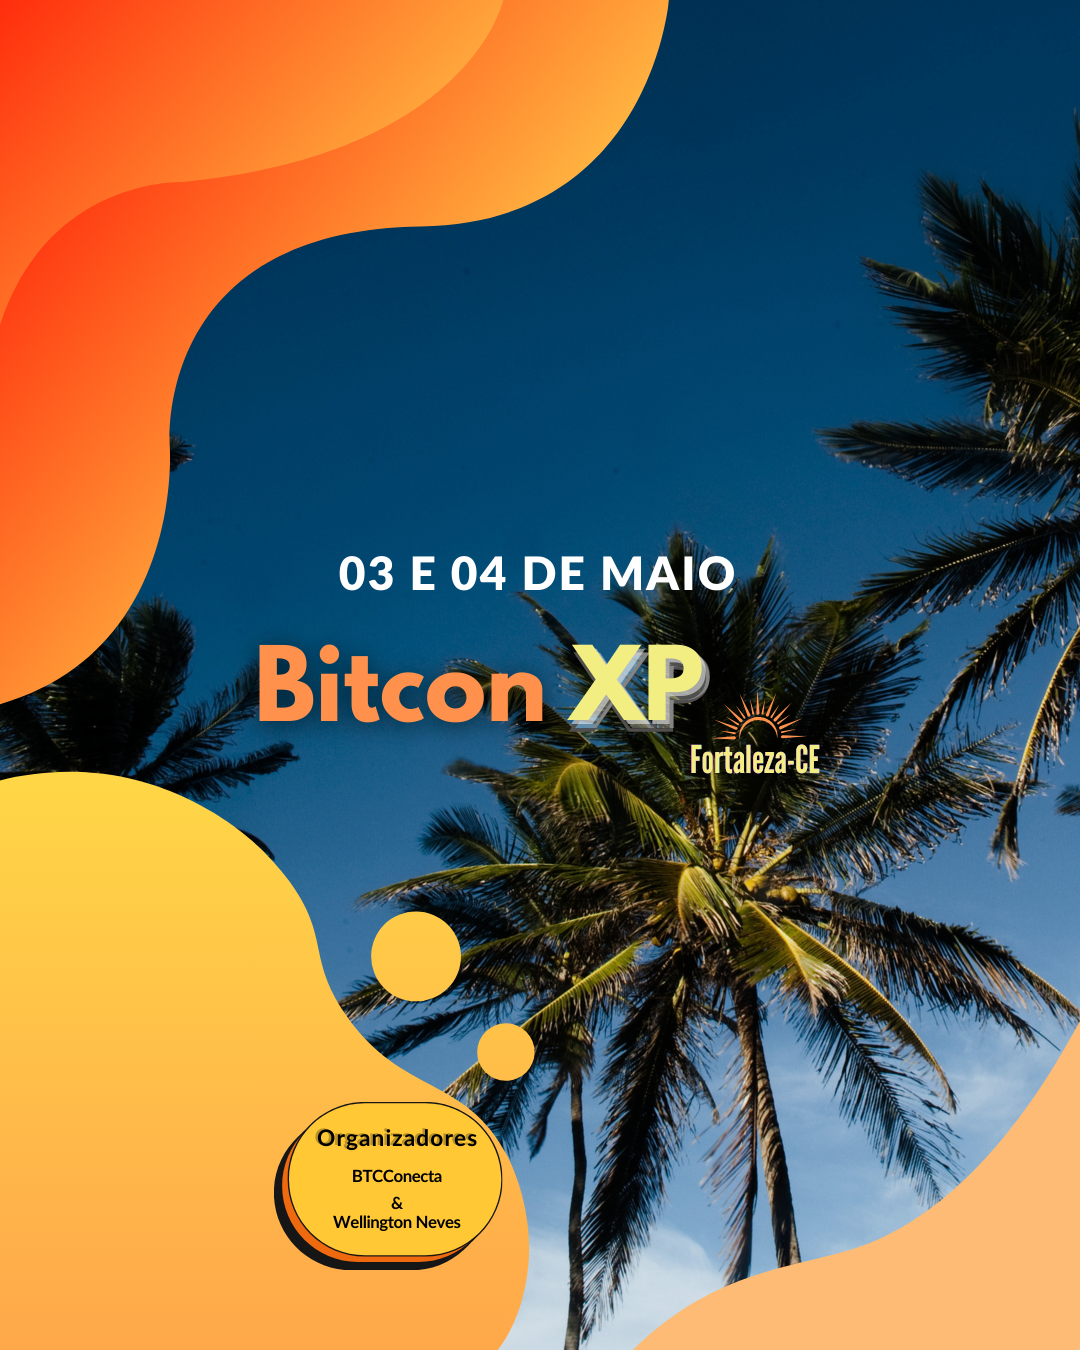
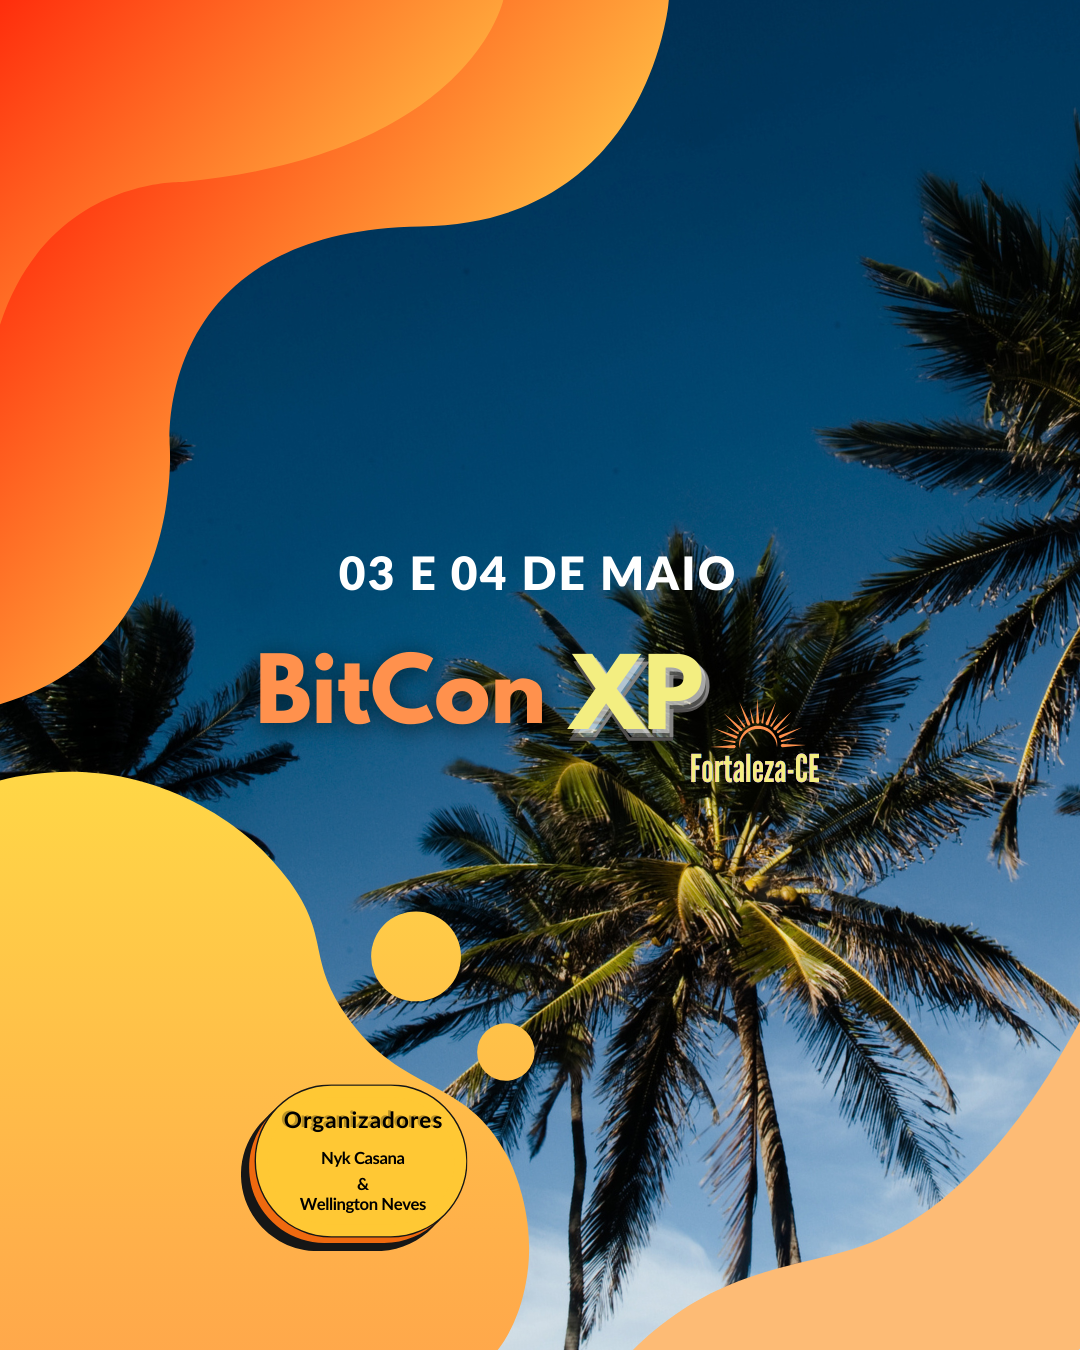
Ajustes no layout

Changed region(s): [[0.2139, 0.8089, 0.4583, 0.9644], [0.5194, 0.4667, 0.7639, 0.5911], [0.2444, 0.4667, 0.4889, 0.56]]

diff --git a/src/components/Ingressos/index.tsx b/src/components/Ingressos/index.tsx
@@ -1,9 +1,7 @@
-import React, { useState } from 'react';
-import { Box, Typography, Button, Paper, Stack, Grid, TextField } from '@mui/material';
+import React from 'react';
+import { Box, Typography, Button, Paper, Grid } from '@mui/material';
 import { motion } from 'framer-motion';
 import WhatsAppIcon from '@mui/icons-material/WhatsApp';
-import SendIcon from '@mui/icons-material/Send';
-import ArrowBackIcon from '@mui/icons-material/ArrowBack';
 
 const ingressos = [
     { titulo: 'Bitcoin Day', descricao: 'Acesso ao primeiro dia do evento, com palestras e cursos exclusivos sobre Bitcoin.', preco: 'R$ 200,00', cor: 'linear-gradient(135deg, #f5af19, #e69c47)', emoji: '₿' },
@@ -13,71 +11,6 @@ const ingressos = [
 ];
 
 const Ingressos = () => {
-    const [formInputs, setFormInputs] = useState({
-        nome: "",
-        email: "",
-        telefone: "",
-        mensagem: "",
-        ingressoSelecionado: ""
-    });
-
-    const [ingressoEscolhido, setIngressoEscolhido] = useState(null);
-    const [mensagemStatus, setMensagemStatus] = useState("");
-
-    const handleChange = (e) => {
-        const { name, value } = e.target;
-        setFormInputs(prevInputs => ({
-            ...prevInputs,
-            [name]: value,
-            mensagem: `Estou interessado em compro o : ${ingressoEscolhido?.titulo || ""}.\n\nNome: ${prevInputs.nome || value}\nTelefone: ${prevInputs.telefone || value}`
-        }));
-    };
-
-    const handleSelectIngresso = (ingresso) => {
-        setIngressoEscolhido(ingresso);
-        setFormInputs(prevInputs => ({
-            ...prevInputs,
-            ingressoSelecionado: ingresso.titulo,
-            mensagem: `Estou interessado em comprar o: ${ingresso.titulo}.\n\nNome: ${prevInputs.nome || "Nome não informado"}\nTelefone: ${prevInputs.telefone || "Telefone não informado"}`
-        }));
-    };
-
-    const handleWhatsApp = () => {
-        const mensagemWhatsApp = `Olá, gostaria de comprar o ingresso: *${formInputs.ingressoSelecionado}*`;
-        return `https://wa.me/556199180458?text=${encodeURIComponent(mensagemWhatsApp)}`;
-    };
-
-    const handleVoltar = () => {
-        setIngressoEscolhido(null);
-        setFormInputs({ nome: "", email: "", telefone: "", mensagem: "", ingressoSelecionado: "" });
-        setMensagemStatus("");
-    };
-
-    const handleSubmit = async (e) => {
-        e.preventDefault();
-
-        const googleFormUrl = "https://docs.google.com/forms/d/e/1FAIpQLSeKaqLIZO2NnoGAjVmn6Wj7jCOl6r_vdrI86KuTiwpiSAVvRA/formResponse";
-
-        const formPayload = new FormData();
-        formPayload.append("entry.1209685076", formInputs.nome);
-        formPayload.append("entry.796714753", formInputs.email);
-        formPayload.append("entry.2008765561", formInputs.telefone);
-        formPayload.append("entry.3456789012", formInputs.ingressoSelecionado);
-        formPayload.append("entry.2023437147", formInputs.mensagem);
-
-        try {
-            await fetch(googleFormUrl, {
-                method: "POST",
-                body: formPayload,
-                mode: "no-cors",
-            });
-
-            setMensagemStatus("✅ Formulário enviado com sucesso!");
-        } catch (error) {
-            setMensagemStatus("❌ Erro ao enviar. Tente novamente.");
-        }
-    };
-
     return (
         <Box id="ingressos" sx={{ background: 'linear-gradient(to right, #e69c47, #002f87)', color: '#fff', padding: '100px 20px', textAlign: 'center' }}>
             <motion.div initial={{ opacity: 0, y: 30 }} whileInView={{ opacity: 1, y: 0 }} transition={{ duration: 1 }}>
@@ -86,48 +19,27 @@ const Ingressos = () => {
                         <span style={{ color: '#fff' }}>PRÉ-VENDA</span> LIBERADA!
                     </Typography>
 
-                    {!ingressoEscolhido ? (
-                        <Grid container spacing={3} justifyContent="center">
-                            {ingressos.map((ingresso, index) => (
-                                <Grid item xs={12} md={6} key={index}>
-                                    <Paper elevation={6} sx={{ padding: '25px', borderRadius: '16px', background: ingresso.cor, textAlign: 'center', cursor: 'pointer' }} onClick={() => handleSelectIngresso(ingresso)}>
-                                        <Typography variant="h5" sx={{ fontWeight: 'bold', color: '#fff', mb: 1 }}>{ingresso.emoji} {ingresso.titulo}</Typography>
-                                        <Typography variant="body1" sx={{ color: '#fff', mb: 2 }}>{ingresso.descricao}</Typography>
-                                        <Typography variant="h4" sx={{ fontWeight: 'bold', color: '#FFEB3B' }}>{ingresso.preco}</Typography>
-                                    </Paper>
-                                </Grid>
-                            ))}
-                        </Grid>
-                    ) : (
-                        <>
-                            <Paper elevation={6} sx={{ padding: '25px', borderRadius: '16px', background: ingressoEscolhido.cor, textAlign: 'center', mb: 3 }}>
-                                <Typography variant="h5" sx={{ fontWeight: 'bold', color: '#fff', mb: 1 }}>{ingressoEscolhido.emoji} {ingressoEscolhido.titulo}</Typography>
-                                <Typography variant="body1" sx={{ color: '#fff', mb: 2 }}>{ingressoEscolhido.descricao}</Typography>
-                                <Typography variant="h4" sx={{ fontWeight: 'bold', color: '#FFEB3B' }}>{ingressoEscolhido.preco}</Typography>
-                            </Paper>
+                    <Grid container spacing={3} justifyContent="center">
+                        {ingressos.map((ingresso, index) => (
+                            <Grid item xs={12} md={6} key={index}>
+                                <Paper elevation={6} sx={{ padding: '25px', borderRadius: '16px', background: ingresso.cor, textAlign: 'center' }}>
+                                    <Typography variant="h5" sx={{ fontWeight: 'bold', color: '#fff', mb: 1 }}>{ingresso.emoji} {ingresso.titulo}</Typography>
+                                    <Typography variant="body1" sx={{ color: '#fff', mb: 2 }}>{ingresso.descricao}</Typography>
+                                    <Typography variant="h4" sx={{ fontWeight: 'bold', color: '#FFEB3B' }}>{ingresso.preco}</Typography>
+                                </Paper>
+                            </Grid>
+                        ))}
+                    </Grid>
 
-                            <Box component="form" onSubmit={handleSubmit} sx={{ display: 'flex', flexDirection: 'column', alignItems: 'center', gap: 2, mt: 3 }}>
-                                <TextField label="Nome" name="nome" value={formInputs.nome} onChange={handleChange} required fullWidth />
-                                <TextField label="E-mail" name="email" type="email" value={formInputs.email} onChange={handleChange} required fullWidth />
-                                <TextField label="Telefone" name="telefone" value={formInputs.telefone} onChange={handleChange} required fullWidth />
-                                <TextField label="Mensagem" name="mensagem" value={formInputs.mensagem} onChange={handleChange} fullWidth multiline rows={4} />
-
-                                <Stack direction="row" spacing={2} justifyContent="center">
-                                    <Button href={handleWhatsApp()} target="_blank" variant="contained" sx={{ backgroundColor: '#25D366', color: '#fff' }}>
-                                        <WhatsAppIcon sx={{ mr: 1 }} /> Comprar pelo WhatsApp
-                                    </Button>
-                                    <Button type="submit" variant="contained" sx={{ backgroundColor: '#E28D1C', color: '#fff' }}>
-                                        <SendIcon sx={{ mr: 1 }} /> Enviar Formulário
-                                    </Button>
-                                </Stack>
-                                {mensagemStatus && <Typography sx={{ mt: 2, color: '#00e676' }}>{mensagemStatus}</Typography>}
-
-                                <Button onClick={handleVoltar} variant="outlined" sx={{ color: '#fff', borderColor: '#fff', mt: 3 }}>
-                                    <ArrowBackIcon sx={{ mr: 1 }} /> Escolher outro ingresso
-                                </Button>
-                            </Box>
-                        </>
-                    )}
+                    <Box sx={{ mt: 4, display: 'flex', flexDirection: { xs: 'column', sm: 'row' }, gap: 2, alignItems: 'center', justifyContent: 'center' }}>
+                        <Button href="https://wa.me/5561996701472" target="_blank" variant="contained" sx={{ backgroundColor: '#25D366', color: '#fff', width: { xs: '100%', sm: '280px' }, height: '56px' }}>
+                            <WhatsAppIcon sx={{ mr: 1}} /> Compre com Nyk Casana
+                        </Button>
+                        <Typography variant="h6" sx={{ color: '#fff', fontWeight: 'bold' }}>OU</Typography>
+                        <Button href="https://wa.me/5561999180458" target="_blank" variant="contained" sx={{ backgroundColor: '#25D366', color: '#fff', width: { xs: '100%', sm: '280px' }, height: '56px' }}>
+                            <WhatsAppIcon sx={{ mr: 1 }} /> Compre com Wellington
+                        </Button>
+                    </Box>
                 </Paper>
             </motion.div>
         </Box>

diff --git a/src/components/Footer/index.tsx b/src/components/Footer/index.tsx
@@ -4,7 +4,7 @@ import InstagramIcon from '@mui/icons-material/Instagram';
 import YouTubeIcon from '@mui/icons-material/YouTube';
 import TwitterIcon from '@mui/icons-material/Twitter';
 import TelegramIcon from '@mui/icons-material/Telegram';
-import BitcoinIcon from '@mui/icons-material/MonetizationOn';
+import CurrencyBitcoinIcon from '@mui/icons-material/CurrencyBitcoin';
 
 const Footer = () => {
     return (
@@ -22,7 +22,7 @@ const Footer = () => {
                 {/* Nome das Empresas */}
                 <Grid item xs={12}>
                     <Typography variant="h5" sx={{ fontWeight: 'bold', color: '#FFEB3B' }}>
-                        BTC Conecta | W&N Cripto Solutions
+                        W&N Cripto Solutions
                     </Typography>
                 </Grid>
 
@@ -31,16 +31,16 @@ const Footer = () => {
                     <Typography variant="body1" sx={{ mb: 1 }}>
                         Siga-nos nas redes sociais:
                     </Typography>
-                    <IconButton href="https://instagram.com/bitconxp"  target="_blank" sx={{ color: '#FFEB3B', transition: '0.3s', '&:hover': { color: '#ffa500' } }}>
+                    <IconButton href="https://instagram.com/nykcasana"  target="_blank" sx={{ color: '#FFEB3B', transition: '0.3s', '&:hover': { color: '#ffa500' } }}>
                         <InstagramIcon fontSize="large" />
                     </IconButton>
                     <IconButton href="" target="_blank" sx={{ color: '#FFEB3B', transition: '0.3s', '&:hover': { color: '#ffa500' } }}>
                         <YouTubeIcon fontSize="large" />
                     </IconButton>
-                    <IconButton href="https://x.com/bitconxp" target="_blank" sx={{ color: '#FFEB3B', transition: '0.3s', '&:hover': { color: '#ffa500' } }}>
+                    <IconButton href="" target="_blank" sx={{ color: '#FFEB3B', transition: '0.3s', '&:hover': { color: '#ffa500' } }}>
                         <TwitterIcon fontSize="large" />
                     </IconButton>
-                    <IconButton href="https://telegram.org" target="_blank" sx={{ color: '#FFEB3B', transition: '0.3s', '&:hover': { color: '#ffa500' } }}>
+                    <IconButton href="" target="_blank" sx={{ color: '#FFEB3B', transition: '0.3s', '&:hover': { color: '#ffa500' } }}>
                         <TelegramIcon fontSize="large" />
                     </IconButton>
                 </Grid>
@@ -49,41 +49,39 @@ const Footer = () => {
 
                 {/* Política de Privacidade e Termos */}
                 <Grid item xs={12}>
-                         <Typography variant="body2">
-                            <a href="#" 
-                                style={{ color: '#FFEB3B', textDecoration: 'none', fontWeight: 'bold', marginRight: '15px', transition: '0.3s' }}
-                                onMouseEnter={(e) => (e.target as HTMLElement).style.color = '#ffa500'}
-                                onMouseLeave={(e) => (e.target as HTMLElement).style.color = '#FFEB3B'}
-                            >
-                                Política de Privacidade
-                            </a> 
-                            |
-                            <a href="#" 
-                                style={{ color: '#FFEB3B', textDecoration: 'none', fontWeight: 'bold', marginLeft: '15px', transition: '0.3s' }}
-                                onMouseEnter={(e) => (e.target as HTMLElement).style.color = '#ffa500'}
-                                onMouseLeave={(e) => (e.target as HTMLElement).style.color = '#FFEB3B'}
-                            >
-                                Termos de Uso
-                            </a>
-                         </Typography>
-
+                    <Typography variant="body2">
+                        <a href="#" 
+                            style={{ color: '#FFEB3B', textDecoration: 'none', fontWeight: 'bold', marginRight: '15px', transition: '0.3s' }}
+                            onMouseEnter={(e) => ((e.currentTarget as HTMLElement).style.color = '#ffa500')}
+                            onMouseLeave={(e) => ((e.currentTarget as HTMLElement).style.color = '#FFEB3B')}
+                        >
+                            Política de Privacidade
+                        </a> 
+                        |
+                        <a href="#" 
+                            style={{ color: '#FFEB3B', textDecoration: 'none', fontWeight: 'bold', marginLeft: '15px', transition: '0.3s' }}
+                            onMouseEnter={(e) => ((e.currentTarget as HTMLElement).style.color = '#ffa500')}
+                            onMouseLeave={(e) => ((e.currentTarget as HTMLElement).style.color = '#FFEB3B')}
+                        >
+                            Termos de Uso
+                        </a>
+                    </Typography>
                 </Grid>
 
                 {/* Preferência por Bitcoin */}
                 <Grid item xs={12}>
                     <Typography variant="body2" sx={{ display: 'flex', justifyContent: 'center', alignItems: 'center', gap: 1 }}>
                         Preferimos Bitcoin 
-                        <BitcoinIcon sx={{ color: '#FFEB3B' }} />
+                        <CurrencyBitcoinIcon sx={{ color: '#FFEB3B' }} />
                     </Typography>
                 </Grid>
 
                 {/* Direitos Autorais */}
                 <Grid item xs={12}>
                     <Typography variant="body2" sx={{ color: '#ddd' }}>
-                        © 2025 Evento BITcon XP. Todos os direitos reservados.
+                        © 2025 Evento BitCon XP. Todos os direitos reservados.
                     </Typography>
                 </Grid>
-
             </Grid>
         </Box>
     );

diff --git a/src/components/Contato/index.tsx b/src/components/Contato/index.tsx
@@ -7,13 +7,13 @@ import EmailIcon from '@mui/icons-material/Email';
 
 const contatos = [
     {
-        nome: "BTC Conecta",
-        telefones: ["61 99670-1472", "61 9979-7179"], 
-        instagram: "@btcconecta",
-        instagramLink: "https://instagram.com/btcconecta",
-        twitter: "@btcconecta",
+        nome: "Nyk Casana",
+        telefones: ["61 99670-1472", ""], 
+        instagram: "@nykcasana",
+        instagramLink: "https://instagram.com/nykcasana",
+        twitter: null,
         twitterLink: "https://twitter.com/btcconecta",
-        foto: "/assets/btcconecta.jpeg"
+        foto: "/assets/nyk01.jpg"
     },
     {
         nome: "Wellington Neves",
@@ -36,7 +36,7 @@ const Contato = () => {
         <Box id="contato" sx={{ background: 'linear-gradient(to right, #e69c47, #002f87)', color: '#fff', padding: '80px 20px', textAlign: 'center' }}>
             
             {/* Título */}
-            <Typography variant="h3" sx={{ fontWeight: 'bold', color: '#D17A00', mb: 2 }}>
+            <Typography variant="h3" sx={{ fontWeight: 'bold', color: '#FFEB3B', mb: 2 }}>
             fale conosco
             </Typography>
             <Typography variant="h5" sx={{ fontWeight: 'bold', mb: 4 }}>
@@ -125,7 +125,7 @@ const Contato = () => {
                                         ))}
                                     </Box>
 
-<Box sx={{ display: 'flex', flexDirection: 'column', gap: 2, alignItems: 'center', justifyContent: 'center' }}>
+<Box sx={{ display: 'flex', flexDirection: 'column', gap: 2, alignItems: 'center', justifyContent: 'center', marginLeft: '-20px' }}>
     {/* Instagram */}
     <Box sx={{ display: 'flex', alignItems: 'center', gap: 1 }}>
         <IconButton href={contato.instagramLink} target="_blank" sx={{ color: '#D17A00' }}>
@@ -142,23 +142,7 @@ const Contato = () => {
         </Typography>
     </Box>
 
-    {/* Twitter (se existir) */}
-    {contato.twitter && (
-        <Box sx={{ display: 'flex', alignItems: 'center', gap: 1 }}>
-            <IconButton href={contato.twitterLink} target="_blank" sx={{ color: '#D17A00' }}>
-                <TwitterIcon fontSize="large" />
-            </IconButton>
-            <Typography 
-                variant="h6"
-                component="a"
-                href={contato.twitterLink}
-                target="_blank"
-                sx={{ textDecoration: 'none', color: '#fff', '&:hover': { color: '#ffa500' } }}
-            >
-                {contato.twitter}
-            </Typography>
-        </Box>
-    )}
+   
 </Box>
 
                                 </>

diff --git a/src/components/Local/index.tsx b/src/components/Local/index.tsx
@@ -6,19 +6,12 @@ import { FaWaze } from 'react-icons/fa';
 
 const locais = [
     {
-        nome: '📍 R. Padre Ibiapina, 1129 - Centro, Fortaleza - CE, 60010-260',
-        imagem: '/assets/Unifra.jpg',
-        googleMaps: 'https://www.google.com/maps?q=R.+Padre+Ibiapina,+1129+-+Centro,+Fortaleza+-+CE',
-        waze: 'https://waze.com/ul?q=R.+Padre+Ibiapina,+1129+-+Centro,+Fortaleza+-+CE',
+        nome: '📍 Local a definir',
+        imagem: '',
+        googleMaps: '',
+        waze: '',
         cor: 'linear-gradient(135deg, #FF8C00, #004aad)',
-    },
-    {
-        nome: '📍 Centro de Eventos BTC Fortaleza',
-        imagem: '/assets/Unifametro.jpg',
-        googleMaps: 'https://www.google.com/maps?q=Centro+de+Eventos+BTC+Fortaleza',
-        waze: 'https://waze.com/ul?q=Centro+de+Eventos+BTC+Fortaleza',
-        cor: 'linear-gradient(135deg, #004aad, #FF8C00)',
-    },
+    }
 ];
 
 const LocalEvento = () => {
@@ -54,7 +47,7 @@ const LocalEvento = () => {
                                 },
                             }}
                         >
-                            <img src={local.imagem} alt={`Local ${index + 1}`} style={{ width: '100%', borderRadius: '12px' }} />
+                          
                             <Typography variant="h6" color="white" sx={{ mt: 3, fontWeight: 'bold' }}>
                                 {local.nome}
                             </Typography>

diff --git a/src/pages/LandingPage/index.tsx b/src/pages/LandingPage/index.tsx
@@ -95,7 +95,7 @@ const LandingPage = () => {
             >
                 <Typography
                     variant="h4"
-                    sx={{ fontWeight: "bold", mb: 4, color: "#FF8C00" }}
+                    sx={{ fontWeight: "bold", mb: 4, color: "#D3D3D3" }}
                 >
                     <EventIcon sx={{ fontSize: "34px", mr: 1 }} /> Data do Evento
                 </Typography>
@@ -103,7 +103,7 @@ const LandingPage = () => {
                     <Box key={index} sx={{ mb: 6 }}>
                         <Typography
                             variant="h5"
-                            sx={{ fontWeight: "bold", color: "#FF8C00", mb: 2 }}
+                            sx={{ fontWeight: "bold", color: "#EEE8AA", mb: 2 }}
                         >
                             {event.date}
                         </Typography>
